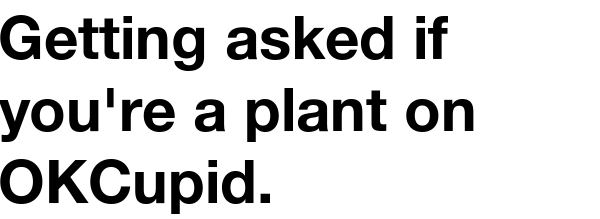
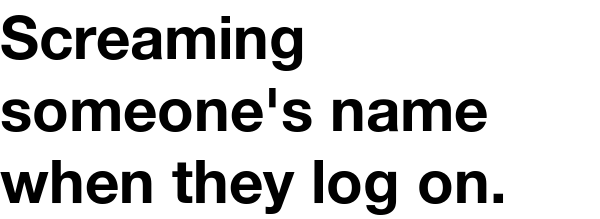
Added Cards, made modifications to script

diff --git a/makecards.py b/makecards.py
@@ -10,12 +10,16 @@ SIZE = 60
 
 
 def CardAgainstHumanity(text, background_color, back, out):
+  modified_text = text.replace("_", "_____")
+  if modified_text[-1] != "." and modified_text[-1] != "!" and modified_text[-1] != "?":
+    modified_text += "."
+  print "Text: %s" % modified_text
   """Writes text onto back, result is in out. color is the background color."""
   text_color = 'white' if background_color == 'black' else 'black'
   text = text.replace('"', '\\"')
   command = ('convert -font %s -pointsize %d -size %dx '
              '-background %s -transparent %s -fill %s "caption:%s" temp.png' % (
-                 FONT, SIZE, TEXT_WIDTH, background_color, background_color, text_color, text.strip()))
+                 FONT, SIZE, TEXT_WIDTH, background_color, background_color, text_color, modified_text.strip()))
   os.system(command)
   command = 'composite -geometry +%d+%d "%s" "%s" "%s"' % (
                 MARGIN, MARGIN, 'temp.png', back, out)
@@ -33,8 +37,7 @@ def main():
   background = sys.argv[1] + ' front.png'
 
   try:
-    outdir = os.path.splitext(os.path.basename(sys.argv[2]))[0]
-    outdir = os.path.splitext(outdir)[0]
+    outdir = "C:\\Users\\Phil\\OneDrive\\CAH cards\\"
     os.mkdir(outdir)
   except OSError: pass
 
